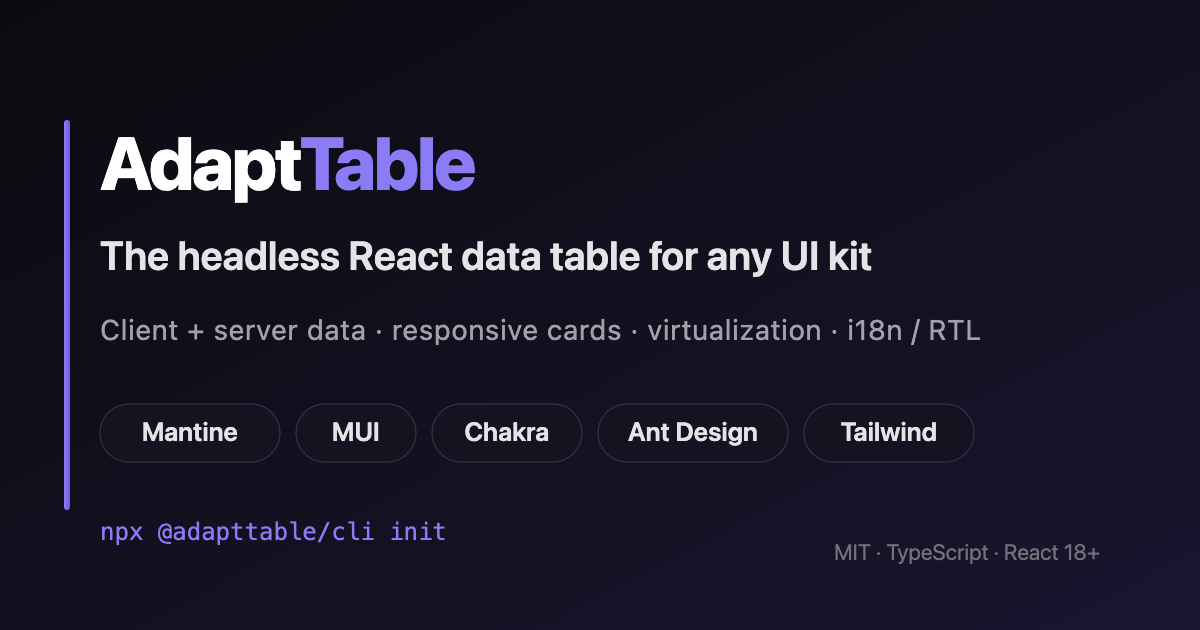
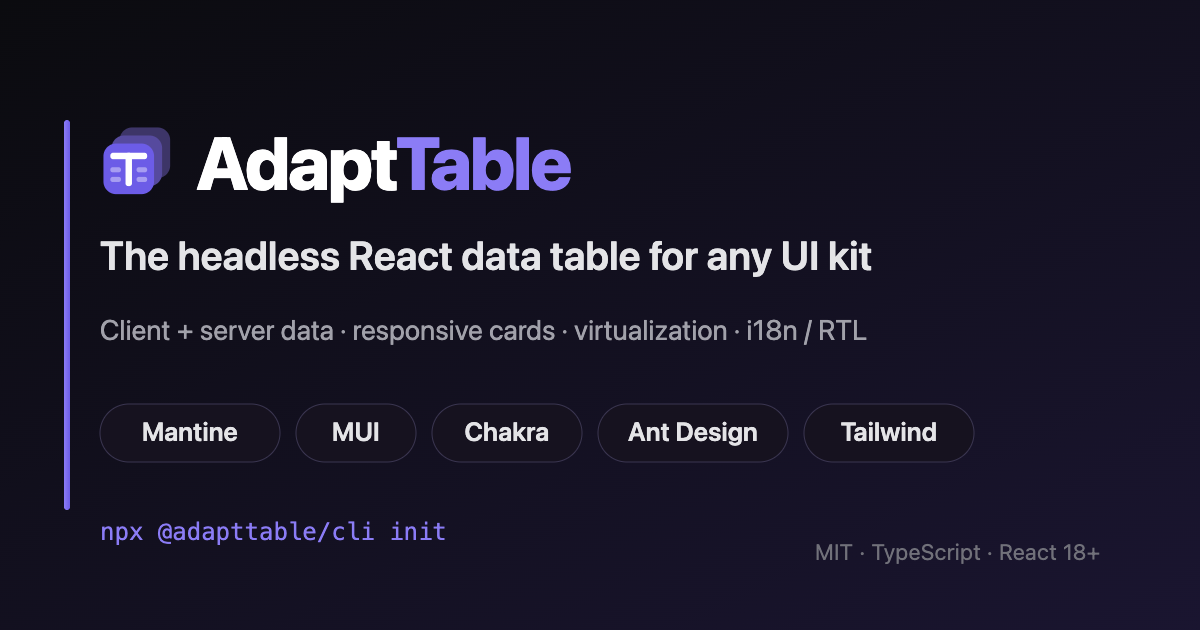
feat(brand): adopt the layered-T mark everywhere
New brand mark: three stacked table cards (one engine, many skins) with
the front card's header row and column divider forming the letter T.
Applied across every surface: both favicons (docs site and showcase),
the landing nav glyph, and the showcase wordmark (brand-variable fills
so the stack adapts to dark mode). The og social card now opens with a
proper mark-plus-wordmark lockup — it previously had no mark at all —
using explicit lighter purples for the back layers since opacity fades
would vanish into the dark background; og.png re-rendered at 1200x630.

Changed region(s): [[0.0617, 0.181, 0.4933, 0.3317], [0.0925, 0.4825, 0.8325, 0.5429], [0.6783, 0.8444, 0.8942, 0.9048]]

diff --git a/apps/showcase/src/sections.tsx b/apps/showcase/src/sections.tsx
@@ -26,25 +26,76 @@ function Wordmark() {
         height="20"
         aria-hidden="true"
       >
-        <rect width="32" height="32" rx="7" fill="var(--brand)" />
-        <rect x="7" y="8" width="18" height="3.2" rx="1.2" fill="#fff" />
         <rect
-          x="7"
-          y="14.4"
-          width="18"
-          height="3.2"
-          rx="1.2"
-          fill="#fff"
-          opacity="0.85"
+          x="8.5"
+          y="1.5"
+          width="22"
+          height="22"
+          rx="5.5"
+          fill="var(--brand)"
+          opacity="0.25"
         />
         <rect
-          x="7"
-          y="20.8"
-          width="18"
-          height="3.2"
+          x="5"
+          y="5"
+          width="22"
+          height="22"
+          rx="5.5"
+          fill="var(--brand)"
+          opacity="0.5"
+        />
+        <rect
+          x="1.5"
+          y="8.5"
+          width="22"
+          height="22"
+          rx="5.5"
+          fill="var(--brand)"
+        />
+        <rect x="4.5" y="12.5" width="16" height="2.8" rx="1.2" fill="#fff" />
+        <rect
+          x="11.1"
+          y="12.5"
+          width="2.8"
+          height="14.5"
           rx="1.2"
           fill="#fff"
-          opacity="0.7"
+        />
+        <rect
+          x="4.5"
+          y="18.8"
+          width="4.6"
+          height="2.2"
+          rx="1"
+          fill="#fff"
+          opacity="0.4"
+        />
+        <rect
+          x="4.5"
+          y="23"
+          width="4.6"
+          height="2.2"
+          rx="1"
+          fill="#fff"
+          opacity="0.4"
+        />
+        <rect
+          x="15.9"
+          y="18.8"
+          width="4.6"
+          height="2.2"
+          rx="1"
+          fill="#fff"
+          opacity="0.4"
+        />
+        <rect
+          x="15.9"
+          y="23"
+          width="4.6"
+          height="2.2"
+          rx="1"
+          fill="#fff"
+          opacity="0.4"
         />
       </svg>
       <span className="wm__txt">
